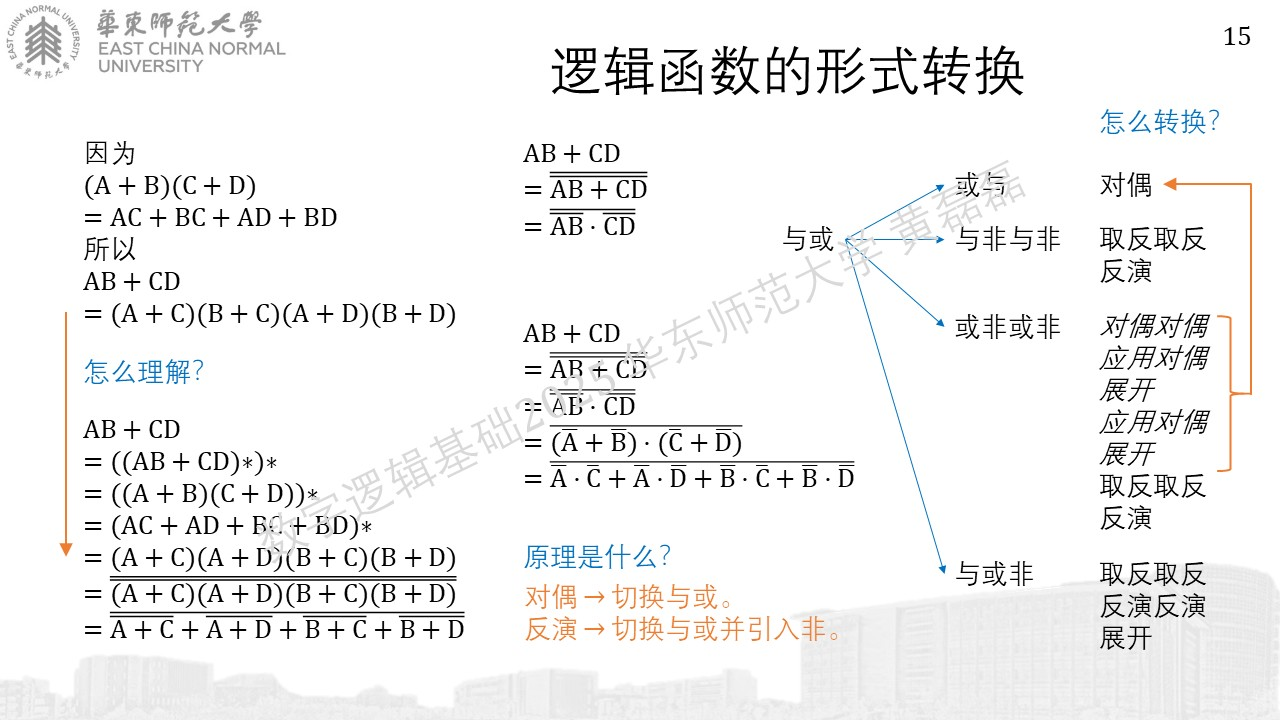
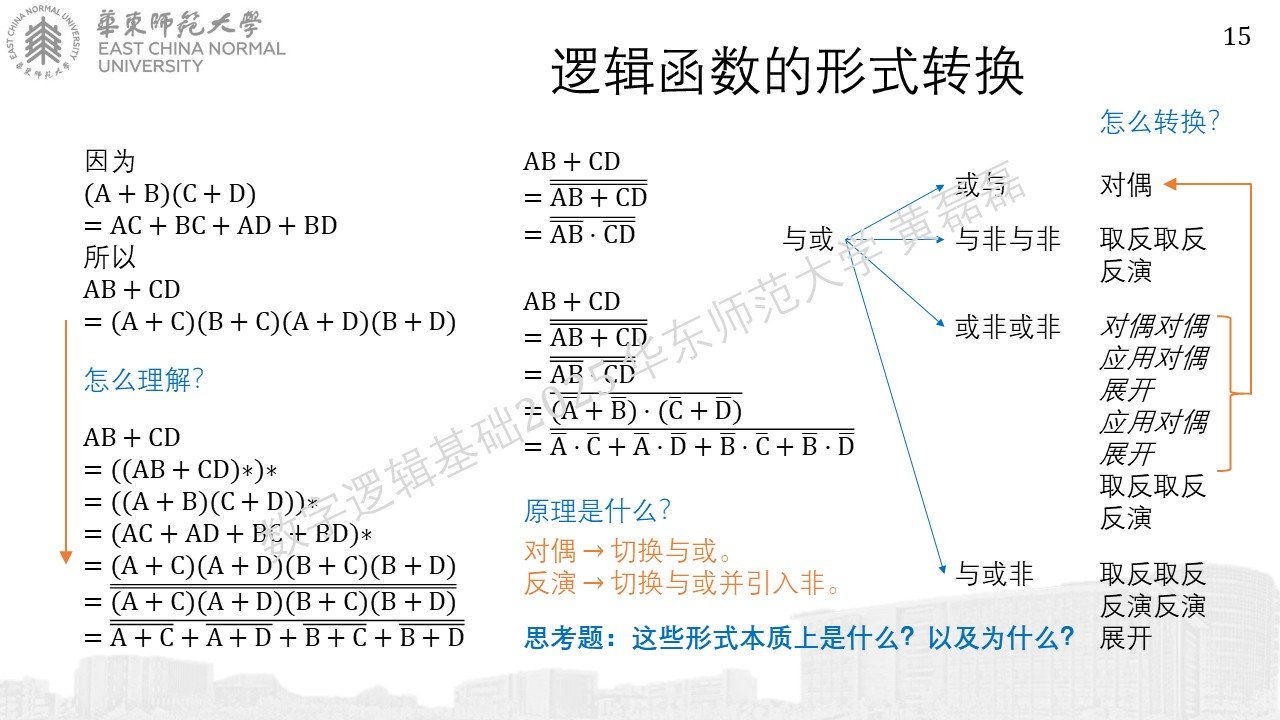
modifications to 10th lecture

diff --git a/source/数字逻辑基础 - 第06讲~第07讲 - 补充C.1 - 其他加法器和乘法器/index.rst b/source/数字逻辑基础 - 第06讲~第07讲 - 补充C.1 - 其他加法器和乘法器/index.rst
@@ -21,17 +21,38 @@
 .. image:: 幻灯片5.JPG
 .. image:: 幻灯片6.JPG
 .. image:: 幻灯片7.JPG
+
+previous version
+
+.. image:: 幻灯片8_old.JPG
+
+current version
+
 .. image:: 幻灯片8.JPG
 
 *乘（补充部分）*
 ........................................
 .. image:: 幻灯片9.JPG
 .. image:: 幻灯片10.JPG
+
+previous version
+
+.. image:: 幻灯片11_old.JPG
+
+current version
+
 .. image:: 幻灯片11.JPG
 .. image:: 幻灯片12.JPG
 .. image:: 幻灯片13.JPG
 .. image:: 幻灯片14.JPG
 .. image:: 幻灯片15.JPG
+
+previous version
+
+.. image:: 幻灯片16_old.JPG
+
+current version
+
 .. image:: 幻灯片16.JPG
 .. image:: 幻灯片17.JPG
 .. image:: 幻灯片18.JPG

diff --git a/source/数字逻辑基础 - 第04讲 - 逻辑代数 - 逻辑化简/index.rst b/source/数字逻辑基础 - 第04讲 - 逻辑代数 - 逻辑化简/index.rst
@@ -37,6 +37,13 @@
 形式转换
 ........................................
 .. image:: 幻灯片14.JPG
+
+previous version
+
+.. image:: 幻灯片15_old.JPG
+
+current version
+
 .. image:: 幻灯片15.JPG
 .. image:: 幻灯片16.JPG
 
